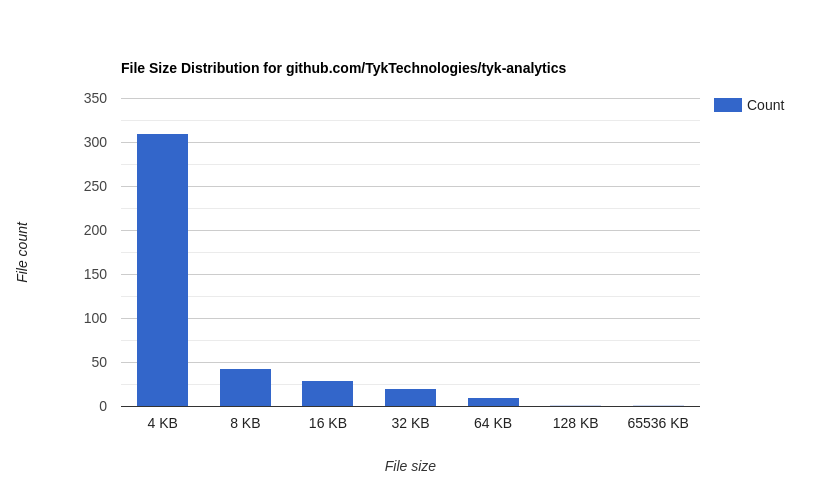
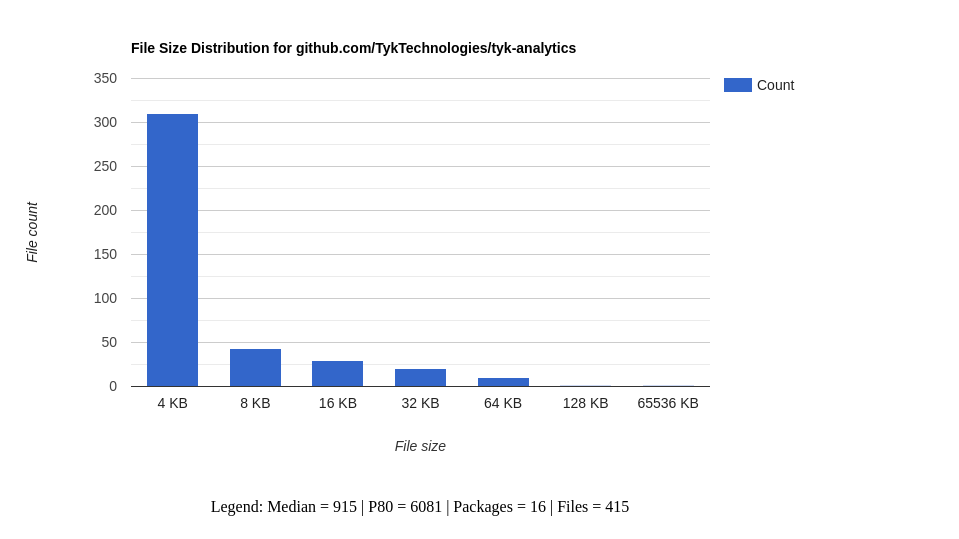
Add legend to chart, update readme examples

diff --git a/cmd/go-ddd-stats/examples/gateway.html b/cmd/go-ddd-stats/examples/gateway.html
@@ -1,0 +1,84 @@
+<!DOCTYPE html>
+<html>
+<head>
+    <!-- Load the Google Charts library -->
+    <script type="text/javascript" src="https://www.gstatic.com/charts/loader.js"></script>
+    <script type="text/javascript">
+        google.charts.load('current', {'packages':['corechart']});
+        google.charts.setOnLoadCallback(drawChart);
+
+        function drawChart() {
+            var jsonData = {
+  "Package": "github.com/TykTechnologies/tyk",
+  "Sizes": [
+    {
+      "Size": "4 KB",
+      "Count": 183
+    },
+    {
+      "Size": "8 KB",
+      "Count": 94
+    },
+    {
+      "Size": "16 KB",
+      "Count": 70
+    },
+    {
+      "Size": "32 KB",
+      "Count": 28
+    },
+    {
+      "Size": "64 KB",
+      "Count": 19
+    },
+    {
+      "Size": "128 KB",
+      "Count": 3
+    }
+  ],
+  "Median": 4656,
+  "P80": 11109,
+  "Packages": 48,
+  "Files": 397
+};
+
+            var data = new google.visualization.DataTable();
+            data.addColumn('string', 'Size');
+            data.addColumn('number', 'Count');
+            data.addRows(jsonData.Sizes.length);
+
+            for (var i = 0; i < jsonData.Sizes.length; i++) {
+                data.setValue(i, 0, jsonData.Sizes[i].Size);
+                data.setValue(i, 1, jsonData.Sizes[i].Count);
+            }
+
+            var options = {
+                title: 'File Size Distribution for ' + jsonData.Package,
+                hAxis: {
+                    title: 'File size',
+                    titleTextStyle: {color: '#333'}
+                },
+                vAxis: {
+                    title: 'File count',
+                    minValue: 0
+                },
+                seriesType: 'bars',
+                series: {1: {type: 'line'}}
+            };
+
+            var chart = new google.visualization.ComboChart(document.getElementById('chart_div'));
+            chart.draw(data, options);
+
+            // Display the custom legend/footnote
+            var legend = document.createElement('div');
+            legend.style.textAlign = 'center';
+            legend.innerHTML = '<p>Legend: Median = ' + jsonData.Median + ' | P80 = ' + jsonData.P80 + ' | Packages = ' + jsonData.Packages + ' | Files = ' + jsonData.Files + '</p>';
+            document.body.appendChild(legend);
+        }
+    </script>
+</head>
+<body>
+    <!-- Display the chart -->
+    <div id="chart_div" style="width: 900px; height: 500px; margin: 0 auto;"></div>
+</body>
+</html>

diff --git a/cmd/go-ddd-stats/examples/dashboard.html b/cmd/go-ddd-stats/examples/dashboard.html
@@ -72,11 +72,17 @@
 
             var chart = new google.visualization.ComboChart(document.getElementById('chart_div'));
             chart.draw(data, options);
+
+            // Display the custom legend/footnote
+            var legend = document.createElement('div');
+            legend.style.textAlign = 'center';
+            legend.innerHTML = '<p>Legend: Median = ' + jsonData.Median + ' | P80 = ' + jsonData.P80 + ' | Packages = ' + jsonData.Packages + ' | Files = ' + jsonData.Files + '</p>';
+            document.body.appendChild(legend);
         }
     </script>
 </head>
 <body>
     <!-- Display the chart -->
-    <div id="chart_div" style="width: 900px; height: 500px;"></div>
+    <div id="chart_div" style="width: 900px; height: 500px; margin: 0 auto;"></div>
 </body>
 </html>

diff --git a/cmd/go-ddd-stats/README.md b/cmd/go-ddd-stats/README.md
@@ -44,7 +44,7 @@ Example:
 }
 ```
 
-Check out `chart.html` for a visualization of the data.
+Check out `examples/` for a visualization of the data.
 
 ![](examples/gateway.png)
 ![](examples/dashboard.png)
